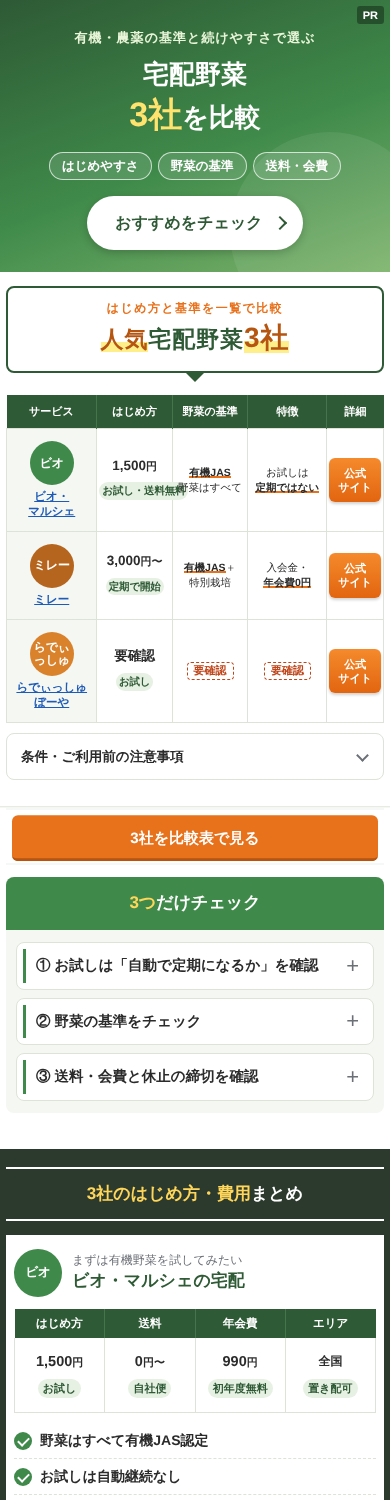
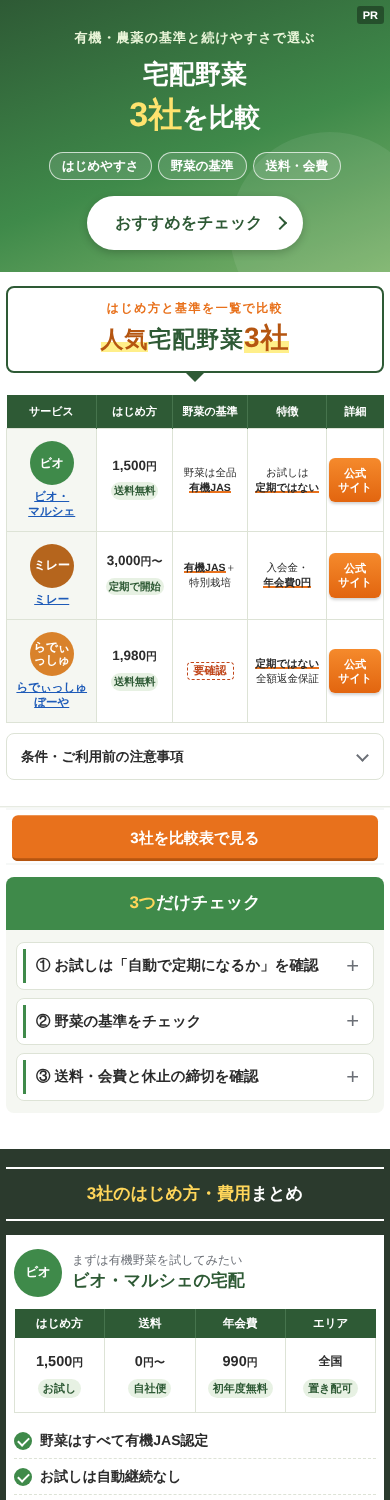
Veg LP: add Radish trial set info from official LP screenshot
Claude-Session: https://claude.ai/code/session_01Mf5S9kxpjZUcdSX7AE66MW

Changed region(s): [[0.2462, 0.3067, 0.6154, 0.3373], [0.6462, 0.4293, 0.8308, 0.46], [0.2769, 0.4293, 0.4, 0.46]]

diff --git a/lp/veg/veg-compare-wp.html b/lp/veg/veg-compare-wp.html
@@ -10,16 +10,16 @@
 <div class="lp-hero"><span class="lp-hero-pr">PR</span><p class="lp-hero-s">有機・農薬の基準と続けやすさで選ぶ</p><h1 class="lp-hero-h">宅配野菜<br><b>3社</b>を比較</h1><ul class="lp-hero-t"><li>はじめやすさ</li><li>野菜の基準</li><li>送料・会費</li></ul><a class="lp-hero-btn" href="#lp-quick">おすすめをチェック</a></div>
 <h2 class="lp-h2b lp-h2x" id="lp-compare"><span class="lp-h2x-s">はじめ方と基準を一覧で比較</span><span class="lp-h2x-m"><em>人気</em>宅配野菜<em class="lp-h2x-n">3社</em></span></h2>
 <div data-pos="compare">
-<table class="lp-ctab"><thead><tr><th scope="col">サービス</th><th scope="col">はじめ方</th><th scope="col">野菜の基準</th><th scope="col">特徴</th><th scope="col">詳細</th></tr></thead><tbody><tr><th scope="row"><a class="lp-ct-lg" href="https://biomarche.jp/" target="_blank" rel="nofollow sponsored noopener" data-c="biomarche"><span class="lp-logo " style="--lc:#3f8a4a" aria-hidden="true">ビオ</span></a><a class="lp-ct-nm" href="#lp-biomarche">ビオ・<br>マルシェ</a></th><td><b>1,500<small>円</small></b><span class="lp-pill">お試し・送料無料</span></td><td class="lp-ct-f"><em>有機JAS</em><br>野菜はすべて</td><td class="lp-ct-f">お試しは<br><em>定期ではない</em></td><td><a class="lp-ct-btn" href="https://biomarche.jp/" target="_blank" rel="nofollow sponsored noopener" data-c="biomarche">公式<br>サイト</a></td></tr><tr><th scope="row"><a class="lp-ct-lg" href="https://www.millet.co.jp/" target="_blank" rel="nofollow sponsored noopener" data-c="millet"><span class="lp-logo " style="--lc:#b5651d" aria-hidden="true">ミレー</span></a><a class="lp-ct-nm" href="#lp-millet">ミレー</a></th><td><b>3,000<small>円〜</small></b><span class="lp-pill">定期で開始</span></td><td class="lp-ct-f"><em>有機JAS</em>＋<br>特別栽培</td><td class="lp-ct-f">入会金・<br><em>年会費0円</em></td><td><a class="lp-ct-btn" href="https://www.millet.co.jp/" target="_blank" rel="nofollow sponsored noopener" data-c="millet">公式<br>サイト</a></td></tr><tr><th scope="row"><a class="lp-ct-lg" href="https://www.radishbo-ya.co.jp/" target="_blank" rel="nofollow sponsored noopener" data-c="radish"><span class="lp-logo " style="--lc:#d9822b" aria-hidden="true">らでぃ<br>っしゅ</span></a><a class="lp-ct-nm" href="#lp-radish">らでぃっしゅ<br>ぼーや</a></th><td><b>要確認</b><span class="lp-pill">お試し</span></td><td class="lp-ct-f"><span class="lp-tbd">要確認</span></td><td class="lp-ct-f"><span class="lp-tbd">要確認</span></td><td><a class="lp-ct-btn" href="https://www.radishbo-ya.co.jp/" target="_blank" rel="nofollow sponsored noopener" data-c="radish">公式<br>サイト</a></td></tr></tbody></table>
+<table class="lp-ctab"><thead><tr><th scope="col">サービス</th><th scope="col">はじめ方</th><th scope="col">野菜の基準</th><th scope="col">特徴</th><th scope="col">詳細</th></tr></thead><tbody><tr><th scope="row"><a class="lp-ct-lg" href="https://biomarche.jp/" target="_blank" rel="nofollow sponsored noopener" data-c="biomarche"><span class="lp-logo " style="--lc:#3f8a4a" aria-hidden="true">ビオ</span></a><a class="lp-ct-nm" href="#lp-biomarche">ビオ・<br>マルシェ</a></th><td><b>1,500<small>円</small></b><span class="lp-pill">送料無料</span></td><td class="lp-ct-f">野菜は全品<br><em>有機JAS</em></td><td class="lp-ct-f">お試しは<br><em>定期ではない</em></td><td><a class="lp-ct-btn" href="https://biomarche.jp/" target="_blank" rel="nofollow sponsored noopener" data-c="biomarche">公式<br>サイト</a></td></tr><tr><th scope="row"><a class="lp-ct-lg" href="https://www.millet.co.jp/" target="_blank" rel="nofollow sponsored noopener" data-c="millet"><span class="lp-logo " style="--lc:#b5651d" aria-hidden="true">ミレー</span></a><a class="lp-ct-nm" href="#lp-millet">ミレー</a></th><td><b>3,000<small>円〜</small></b><span class="lp-pill">定期で開始</span></td><td class="lp-ct-f"><em>有機JAS</em>＋<br>特別栽培</td><td class="lp-ct-f">入会金・<br><em>年会費0円</em></td><td><a class="lp-ct-btn" href="https://www.millet.co.jp/" target="_blank" rel="nofollow sponsored noopener" data-c="millet">公式<br>サイト</a></td></tr><tr><th scope="row"><a class="lp-ct-lg" href="https://www.radishbo-ya.co.jp/" target="_blank" rel="nofollow sponsored noopener" data-c="radish"><span class="lp-logo " style="--lc:#d9822b" aria-hidden="true">らでぃ<br>っしゅ</span></a><a class="lp-ct-nm" href="#lp-radish">らでぃっしゅ<br>ぼーや</a></th><td><b>1,980<small>円</small></b><span class="lp-pill">送料無料</span></td><td class="lp-ct-f"><span class="lp-tbd">要確認</span></td><td class="lp-ct-f"><em>定期ではない</em><br>全額返金保証</td><td><a class="lp-ct-btn" href="https://www.radishbo-ya.co.jp/" target="_blank" rel="nofollow sponsored noopener" data-c="radish">公式<br>サイト</a></td></tr></tbody></table>
 </div>
-<details class="lp-note"><summary>条件・ご利用前の注意事項</summary><ul class="lp-notes"><li>※料金は税込・2026年10月時点の公式サイトの情報です。</li><li>※ビオ・マルシェのお試しセットは定期購入ではありません（自動継続なし）。</li><li>※ミレーは定期購入で始まります。お休み・停止はマイページからできます。</li><li>※離島などは追加送料がかかる場合があります。</li></ul></details>
+<details class="lp-note"><summary>条件・ご利用前の注意事項</summary><ul class="lp-notes"><li>※料金は税込・2026年10月時点の公式サイトの情報です。</li><li>※ビオ・マルシェのお試しセットと、らでぃっしゅぼーやのおためしセットは定期購入ではありません。</li><li>※らでぃっしゅぼーやのおためしセットは10月15日（木）朝10時まで・900名限定（なくなり次第終了）。</li><li>※ミレーは定期購入で始まります。お休み・停止はマイページからできます。</li><li>※離島などは追加送料がかかる場合があります。</li></ul></details>
 <h2 class="lp-h2b">後悔しない選び方</h2>
 <div class="lp-mc"><span class="lp-mc-t"><b>3つ</b>だけチェック</span><div class="lp-mc-b"><details><summary>① お試しは「自動で定期になるか」を確認</summary><div class="lp-mc-a"><p>お試しだけで終わるのか、<b>そのまま定期購入になるのか</b>はサービスによって違います。</p></div></details><details><summary>② 野菜の基準をチェック</summary><div class="lp-mc-a"><p><b>有機JAS</b>だけなのか、<b>化学農薬の使い方</b>が商品ごとに違うのかを確認。</p></div></details><details><summary>③ 送料・会費と休止の締切を確認</summary><div class="lp-mc-a"><p>野菜代だけでなく<b>送料・クール料・年会費</b>、休みたいときの<b>締切日</b>も契約前にチェック。</p></div></details></div></div>
 <div class="lp-sum" id="lp-quick" data-pos="quick" style="margin-top:36px">
 <p class="lp-sum-t"><b>3社のはじめ方・費用</b>まとめ</p>
 <div class="lp-sc" data-pos="quick"><div class="lp-sc-h"><a href="https://biomarche.jp/" target="_blank" rel="nofollow sponsored noopener" data-c="biomarche"><span class="lp-logo lp-logo-m" style="--lc:#3f8a4a" aria-hidden="true">ビオ</span></a><div><small>まずは有機野菜を試してみたい</small><b>ビオ・マルシェの宅配</b></div></div><table class="lp-sc-t"><thead><tr><th scope="col">はじめ方</th><th scope="col">送料</th><th scope="col">年会費</th><th scope="col">エリア</th></tr></thead><tbody><tr><td><b class="">1,500<small>円</small></b><span class="lp-pill">お試し</span></td><td><b class="">0<small>円〜</small></b><span class="lp-pill">自社便</span></td><td><b class="">990<small>円</small></b><span class="lp-pill">初年度無料</span></td><td><b class="lp-sc-s">全国</b><span class="lp-pill">置き配可</span></td></tr></tbody></table><ul class="lp-sc-p"><li>野菜はすべて有機JAS認定</li><li>お試しは自動継続なし</li></ul><div class="lp-cta2"><a class="lp-b2 lp-b2-o" href="#lp-biomarche">詳細を見る</a><a class="lp-b2 lp-b2-f" href="https://biomarche.jp/" target="_blank" rel="nofollow sponsored noopener" data-c="biomarche">公式サイトを見る</a></div></div>
 <div class="lp-sc" data-pos="quick"><div class="lp-sc-h"><a href="https://www.millet.co.jp/" target="_blank" rel="nofollow sponsored noopener" data-c="millet"><span class="lp-logo lp-logo-m" style="--lc:#b5651d" aria-hidden="true">ミレー</span></a><div><small>会費なしで続けたい</small><b>無農薬野菜のミレー</b></div></div><table class="lp-sc-t"><thead><tr><th scope="col">はじめ方</th><th scope="col">送料</th><th scope="col">年会費</th><th scope="col">エリア</th></tr></thead><tbody><tr><td><b class="lp-sc-s">定期</b><span class="lp-pill">いつでも停止</span></td><td><b class="">300<small>円〜</small></b><span class="lp-pill">関東</span></td><td><b class="">0<small>円</small></b><span class="lp-pill">入会金なし</span></td><td><b class="lp-sc-s">全国</b><span class="lp-pill">ヤマト</span></td></tr></tbody></table><ul class="lp-sc-p"><li>入会金・年会費がかからない</li><li>有機JASと特別栽培の野菜だけ</li></ul><div class="lp-cta2"><a class="lp-b2 lp-b2-o" href="#lp-millet">詳細を見る</a><a class="lp-b2 lp-b2-f" href="https://www.millet.co.jp/" target="_blank" rel="nofollow sponsored noopener" data-c="millet">公式サイトを見る</a></div></div>
-<div class="lp-sc" data-pos="quick"><div class="lp-sc-h"><a href="https://www.radishbo-ya.co.jp/" target="_blank" rel="nofollow sponsored noopener" data-c="radish"><span class="lp-logo lp-logo-m" style="--lc:#d9822b" aria-hidden="true">らでぃ<br>っしゅ</span></a><div><small><span class="lp-tbd">要確認</span></small><b>らでぃっしゅぼーや</b></div></div><table class="lp-sc-t"><thead><tr><th scope="col">はじめ方</th><th scope="col">送料</th><th scope="col">年会費</th><th scope="col">エリア</th></tr></thead><tbody><tr><td><b class="lp-sc-s">要確認</b><span class="lp-pill">お試し</span></td><td><b class="lp-sc-s">要確認</b><span class="lp-pill">―</span></td><td><b class="lp-sc-s">要確認</b><span class="lp-pill">―</span></td><td><b class="lp-sc-s">要確認</b><span class="lp-pill">―</span></td></tr></tbody></table><ul class="lp-sc-p"><li>公式サイトで確認中</li><li>公式サイトで確認中</li></ul><div class="lp-cta2"><a class="lp-b2 lp-b2-o" href="#lp-radish">詳細を見る</a><a class="lp-b2 lp-b2-f" href="https://www.radishbo-ya.co.jp/" target="_blank" rel="nofollow sponsored noopener" data-c="radish">公式サイトを見る</a></div></div>
+<div class="lp-sc" data-pos="quick"><div class="lp-sc-h"><a href="https://www.radishbo-ya.co.jp/" target="_blank" rel="nofollow sponsored noopener" data-c="radish"><span class="lp-logo lp-logo-m" style="--lc:#d9822b" aria-hidden="true">らでぃ<br>っしゅ</span></a><div><small>野菜以外の食材もまとめて試したい</small><b>らでぃっしゅぼーや</b></div></div><table class="lp-sc-t"><thead><tr><th scope="col">はじめ方</th><th scope="col">送料</th><th scope="col">年会費</th><th scope="col">エリア</th></tr></thead><tbody><tr><td><b class="">1,980<small>円</small></b><span class="lp-pill">お試し</span></td><td><b class="">0<small>円</small></b><span class="lp-pill">お試し</span></td><td><b class="lp-sc-s">要確認</b><span class="lp-pill">―</span></td><td><b class="lp-sc-s">全国</b><span class="lp-pill">送料無料</span></td></tr></tbody></table><ul class="lp-sc-p"><li>13品入りのおためしセット</li><li>定期購入ではない</li></ul><div class="lp-cta2"><a class="lp-b2 lp-b2-o" href="#lp-radish">詳細を見る</a><a class="lp-b2 lp-b2-f" href="https://www.radishbo-ya.co.jp/" target="_blank" rel="nofollow sponsored noopener" data-c="radish">公式サイトを見る</a></div></div>
 <p class="lp-sum-n">※料金は税込・2026年10月時点。送料は地域・金額・配送方法で変わります。条件は各社の「注意事項」をご確認ください。</p>
 </div>
 <h2 class="lp-h2b" id="lp-clinics">3社を詳しくチェック</h2>
@@ -54,19 +54,19 @@
 <div class="lp-clinic" id="lp-radish" data-pos="radish">
 <h3 class="lp-card-h">らでぃっしゅぼーや</h3>
 <div class="lp-card-b">
-<p class="lp-lead">【要確認】</p>
-<div class="lp-pts"><span class="lp-pts-t">ここが<b>ポイント</b></span><ol><li><h4 class="lp-pts-h"><span>1.</span>【要確認】</h4><p>公式サイトの情報を確認後に記載します。</p></li><li><h4 class="lp-pts-h"><span>2.</span>【要確認】</h4><p>公式サイトの情報を確認後に記載します。</p></li><li><h4 class="lp-pts-h"><span>3.</span>【要確認】</h4><p>公式サイトの情報を確認後に記載します。</p></li></ol></div>
-<div class="lp-cta2 lp-cta1"><a class="lp-b2 lp-b2-f" href="https://www.radishbo-ya.co.jp/" target="_blank" rel="nofollow sponsored noopener" data-c="radish">公式サイトで詳しく見る</a></div>
+<p class="lp-lead">野菜以外の食材もまとめて試したい人に</p>
+<div class="lp-pts"><span class="lp-pts-t">ここが<b>ポイント</b></span><ol><li><h4 class="lp-pts-h"><span>1.</span>13品入りで1,980円</h4><p>野菜・果物・卵・加工品など<b>5,600円（税込）相当</b>が入ったおためしセットです（初回・WEB限定）。</p></li><li><h4 class="lp-pts-h"><span>2.</span>定期購入ではない</h4><p>おためしセットを頼んでも、<b>自動で定期にはなりません</b>。</p></li><li><h4 class="lp-pts-h"><span>3.</span>全額返金保証つき</h4><p>保証の条件は公式サイトで確認してください。</p></li></ol></div>
+<div class="lp-camp2"><b>10月15日（木）朝10時まで</b><ul><li>初回・WEB限定 900名</li><li>5,600円（税込）相当が1,980円・送料無料</li></ul><small>※なくなり次第終了。期限後の内容は公式サイトで確認してください。</small></div><div class="lp-cta2 lp-cta1"><a class="lp-b2 lp-b2-f" href="https://www.radishbo-ya.co.jp/" target="_blank" rel="nofollow sponsored noopener" data-c="radish">公式サイトで詳しく見る</a></div>
 <h4 class="lp-sub">野菜セットの料金<small>税込・2026年10月時点</small></h4>
-<div class="lp-prc"><table><thead><tr><th scope="col">セット</th><th scope="col">価格<small>（税込）</small></th><th scope="col">内容</th></tr></thead><tbody><tr class="lp-prc-k"><th scope="row">【要確認】<span class="lp-pill">―</span></th><td><b class="lp-prc-t">要確認</b></td><td><span class="lp-prc-p">―</span></td></tr></tbody></table></div>
-<details class="lp-note"><summary>条件・ご利用前の注意事項</summary><ul class="lp-notes"><li>※公式サイトの情報を確認後に記載します。</li></ul></details>
+<div class="lp-prc"><table><thead><tr><th scope="col">セット</th><th scope="col">価格<small>（税込）</small></th><th scope="col">内容</th></tr></thead><tbody><tr class="lp-prc-k"><th scope="row">ふぞろい食材おためしセット<span class="lp-pill">13品</span></th><td><b class="lp-prc-t">1,980<small>円</small></b></td><td><span class="lp-prc-p">5,600円相当・送料無料</span></td></tr><tr><th scope="row">定期の野菜セット<span class="lp-pill">―</span></th><td><b class="lp-prc-t">要確認</b></td><td><span class="lp-prc-p">公式サイトで確認中</span></td></tr></tbody></table></div>
+<details class="lp-note"><summary>条件・ご利用前の注意事項</summary><ul class="lp-notes"><li>※おためしセットは初回・WEB限定、900名限定（なくなり次第終了）。</li><li>※収穫状況により、他の産地のものが入る場合があります。</li><li>※全額返金保証の条件は公式サイトで確認してください。</li><li>※定期の料金・送料・会費は確認中です。</li></ul></details>
 <h4 class="lp-sub">野菜の基準</h4>
-<div class="lp-std"><ul><li class="lp-std-a"><b>【要確認】</b><span>公式サイトの情報を確認後に記載します。</span></li></ul></div>
-<div class="lp-ann"><span class="lp-ann-t">ご案内</span><p class="lp-ann-p">【おためしセット】<b>要確認</b><span>―</span></p><div class="lp-cta2 lp-cta1"><a class="lp-b2 lp-b2-f" href="https://www.radishbo-ya.co.jp/" target="_blank" rel="nofollow sponsored noopener" data-c="radish">公式サイトで詳しく見る</a></div></div>
+<div class="lp-std"><ul><li class="lp-std-a"><b>要確認</b><span>野菜の栽培基準は公式サイトで確認中</span></li></ul></div>
+<div class="lp-ann"><span class="lp-ann-t">ご案内</span><p class="lp-ann-p">【ふぞろい食材おためしセット】<b>1,980<small>円</small></b><span>送料無料・定期購入ではありません</span></p><div class="lp-cta2 lp-cta1"><a class="lp-b2 lp-b2-f" href="https://www.radishbo-ya.co.jp/" target="_blank" rel="nofollow sponsored noopener" data-c="radish">公式サイトで詳しく見る</a></div></div>
 </div>
 </div>
 <h2 class="lp-h2b" id="lp-faq">よくある質問</h2>
-<div class="lp-faq2"><details><summary>お試しだけでやめられる？</summary><div class="lp-faq2-a"><p>サービスによって違います。ビオ・マルシェのお試しセットは<b>定期購入ではありません</b>。ミレーは定期購入で始まり、マイページから停止できます。</p></div></details><details><summary>有機野菜と「無農薬」は違う？</summary><div class="lp-faq2-a"><p>「有機（オーガニック）」は、国の<b>有機JAS認証</b>を受けたものだけに使える表示です。「無農薬」という表示は国のガイドラインで使われておらず、「化学農薬不使用」などと表示されます。</p></div></details><details><summary>留守のときはどうなる？</summary><div class="lp-faq2-a"><p>置き配できるかは配送方法で違います。ビオ・マルシェの自社便は置き配に対応、ミレーは宅配ボックスへの置き配に対応していません。</p></div></details><details><summary>年会費はかかる？</summary><div class="lp-faq2-a"><p>ミレーは入会金・年会費がかかりません。ビオ・マルシェは年会費990円（税込）です。</p></div></details><details><summary>配送エリアは？</summary><div class="lp-faq2-a"><p>ミレーとビオ・マルシェは全国に配送しています。離島などは追加送料や配送できない場合があります。</p></div></details></div>
+<div class="lp-faq2"><details><summary>お試しだけでやめられる？</summary><div class="lp-faq2-a"><p>サービスによって違います。ビオ・マルシェとらでぃっしゅぼーやのお試しセットは<b>定期購入ではありません</b>。ミレーは定期購入で始まり、マイページから停止できます。</p></div></details><details><summary>有機野菜と「無農薬」は違う？</summary><div class="lp-faq2-a"><p>「有機（オーガニック）」は、国の<b>有機JAS認証</b>を受けたものだけに使える表示です。「無農薬」という表示は国のガイドラインで使われておらず、「化学農薬不使用」などと表示されます。</p></div></details><details><summary>留守のときはどうなる？</summary><div class="lp-faq2-a"><p>置き配できるかは配送方法で違います。ビオ・マルシェの自社便は置き配に対応、ミレーは宅配ボックスへの置き配に対応していません。</p></div></details><details><summary>年会費はかかる？</summary><div class="lp-faq2-a"><p>ミレーは入会金・年会費がかかりません。ビオ・マルシェは年会費990円（税込）です。</p></div></details><details><summary>配送エリアは？</summary><div class="lp-faq2-a"><p>ミレーとビオ・マルシェは全国に配送しています。離島などは追加送料や配送できない場合があります。</p></div></details></div>
 <h2 class="lp-h2b">申し込む前に知っておくこと</h2>
 <div class="lp-risk2">
 <p><b>定期購入</b>：申し込む前に、自動で定期になるか、休止・解約の方法と締切を確認しましょう。</p><p><b>費用</b>：野菜代のほかに、送料・クール料・年会費などがかかる場合があります。</p><p><b>野菜の内容</b>：天候や収穫の状況で、セットの内容は変わります。</p>
